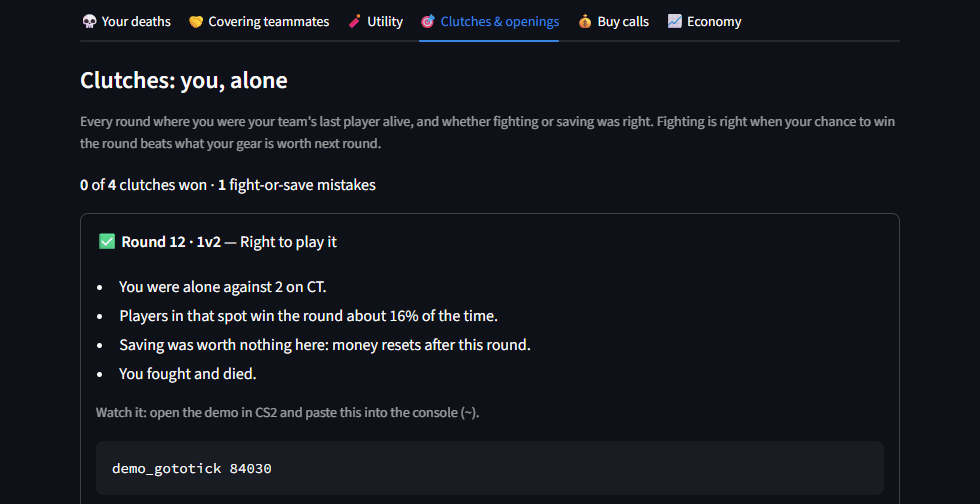
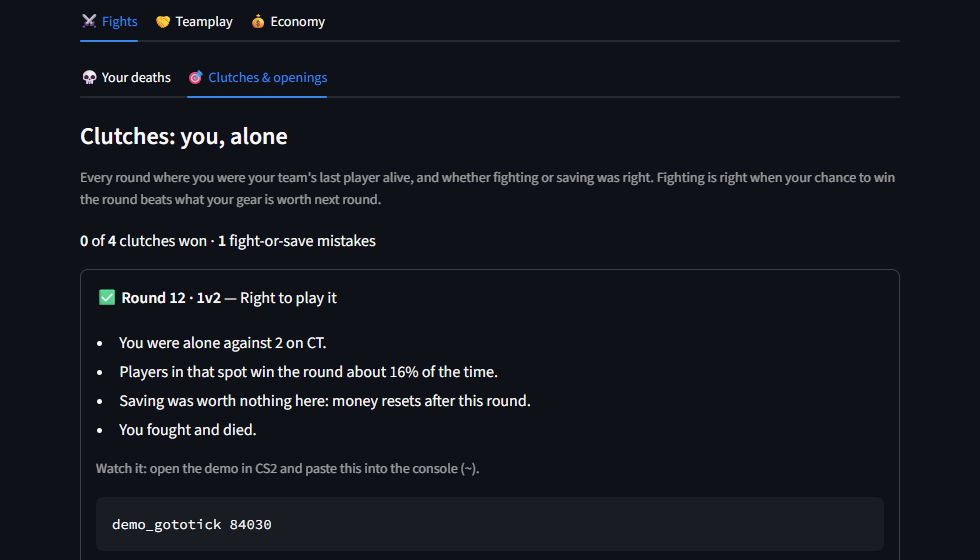
Group the report's six tabs into Fights, Teamplay and Economy
Each group has two sub-tabs: deaths and clutches & openings; covering
teammates and utility; buy calls and round by round. README and its
screenshots updated to match.

diff --git a/app.py b/app.py
@@ -228,19 +228,26 @@ def render_report(report: Report, past: pd.DataFrame | None = None, current: dic
         with st.container(border=True):
             st.markdown(f"{icon} **{moment.title}**  \n{moment.detail}")
 
-    tabs = st.tabs(["💀 Your deaths", "🤝 Covering teammates", "🧨 Utility", "🎯 Clutches & openings", "💰 Buy calls", "📈 Economy"])
-    with tabs[0]:
-        render_deaths(report, mode)
-    with tabs[1]:
-        render_coverage(report, mode)
-    with tabs[2]:
-        render_utility(report, mode)
-    with tabs[3]:
-        render_clutches(report)
-    with tabs[4]:
-        render_buy_calls(report)
-    with tabs[5]:
-        render_economy(report, mode)
+    # Three groups, each with its own sub-tabs, so the page doesn't open on a wall of six choices.
+    fights_tab, teamplay_tab, economy_tab = st.tabs(["⚔ Fights", "🤝 Teamplay", "💰 Economy"])
+    with fights_tab:
+        deaths_tab, clutch_tab = st.tabs(["💀 Your deaths", "🎯 Clutches & openings"])
+        with deaths_tab:
+            render_deaths(report, mode)
+        with clutch_tab:
+            render_clutches(report)
+    with teamplay_tab:
+        cover_tab, utility_tab = st.tabs(["🤝 Covering teammates", "🧨 Utility"])
+        with cover_tab:
+            render_coverage(report, mode)
+        with utility_tab:
+            render_utility(report, mode)
+    with economy_tab:
+        calls_tab, rounds_tab = st.tabs(["💰 Buy calls", "📈 Round by round"])
+        with calls_tab:
+            render_buy_calls(report)
+        with rounds_tab:
+            render_economy(report, mode)
     st.caption(
         f"Win chances come from Halftime's pool of {s['pool_rounds']:,} rounds. Buy calls are graded by playing both "
         "choices forward a few rounds with CS2's money rules; deaths and coverage from where everyone stood and aimed. "

diff --git a/tests/test_app.py b/tests/test_app.py
@@ -19,7 +19,9 @@ def test_report_renders_for_newest_replay_and_switches_player():
     assert not app.exception
     assert app.header[0].value.split(" · ")[1].startswith(("Win", "Loss", "Draw"))
     assert [m.label for m in app.metric][:4] == ["Rounds won", "Avoidable deaths", "Coverage", "Buy calls right"]
-    assert [t.label for t in app.tabs] == ["💀 Your deaths", "🤝 Covering teammates", "🧨 Utility", "🎯 Clutches & openings", "💰 Buy calls", "📈 Economy"]
+    labels = [t.label for t in app.tabs]
+    assert {"⚔ Fights", "🤝 Teamplay", "💰 Economy"} <= set(labels)
+    assert {"💀 Your deaths", "🎯 Clutches & openings", "🤝 Covering teammates", "🧨 Utility", "💰 Buy calls", "📈 Round by round"} <= set(labels)
     assert "Coverage grade" in [m.label for m in app.metric]
 
     first = app.header[0].value

diff --git a/README.md b/README.md
@@ -38,7 +38,7 @@ Real output from real matches. Player names are replaced with stand-ins.
 ![Opening duels by callout](docs/screenshots/openings.png)
 
 ## Features
-- **Match report.** Pick one of your CS2 replays or upload a demo (`.dem`, or FACEIT's compressed `.dem.gz` / `.dem.zst`), then choose the player to review. Press **This is me** once and Halftime opens on you from then on.
+- **Match report.** Pick one of your CS2 replays or upload a demo (`.dem`, or FACEIT's compressed `.dem.gz` / `.dem.zst`), then choose the player to review. Press **This is me** once and Halftime opens on you from then on. The details sit in three tabs: **Fights** (deaths, clutches & openings), **Teamplay** (coverage, utility) and **Economy** (buy calls, round by round).
   - **Your deaths:** each one labelled *traded*, *avoidable* (re-peeked after a kill, pushed with nobody close enough to trade, died with gear in a lost round), *teammates didn't trade* or *lost a duel*, with the reasons, the cost to your team's round win chance, a moment map, and a console command to jump to it in the demo.
   - **Coverage grade (A–F):** how often you were close enough to trade a teammate and aiming at his killer, graded against every player in the pool, with moments to repeat and to fix.
   - **Utility:** grenades thrown, enemies flashed per flash, teammates flashed, grenade damage, and deaths with unused grenades, against the match average.
@@ -95,7 +95,7 @@ python -m cs2_insights.link add https://steamcommunity.com/id/<name> CSGO-xxxxx-
 | Path | What it does |
 |---|---|
 | `app.py` | Streamlit app: match report, habits, legal pages |
-| `src/cs2_insights/demo.py` | Demo parsing: rounds, teams, players, deaths and positions |
+| `src/cs2_insights/demo.py` | Demo parsing: rounds, teams, players, deaths, positions, grenades and flashes |
 | `src/cs2_insights/fights.py` | Death verdicts, trade chance, coverage grade, clutches and opening duels |
 | `src/cs2_insights/utility.py` | Grenade and flash summary per match |
 | `src/cs2_insights/progress.py` | Match-by-match history for progress and the weekly focus |
